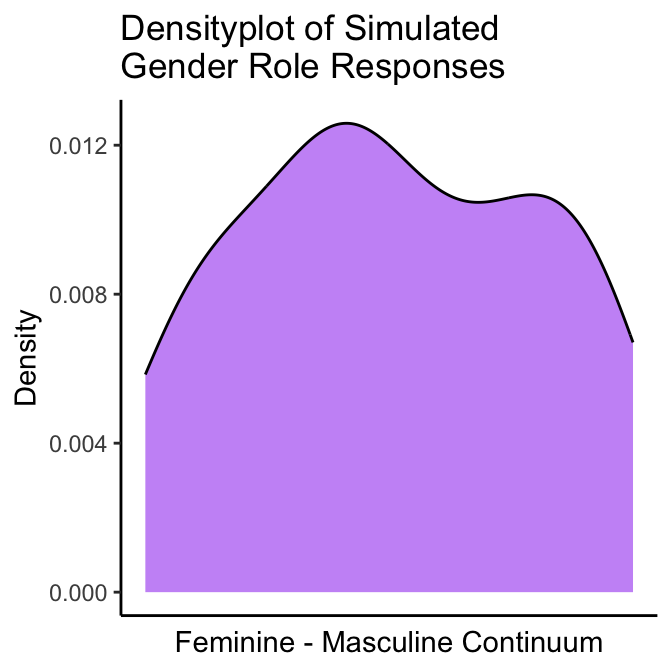
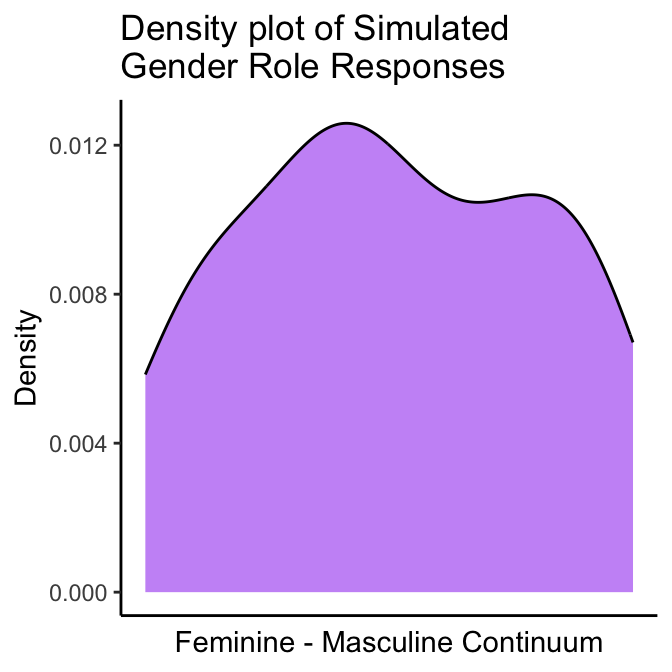
copy edits

Changed region(s): [[0.3438, 0.0, 0.7812, 0.0625]]

diff --git a/docs/continuous.html b/docs/continuous.html
@@ -27,7 +27,7 @@
 <meta name="author" content="S Dogra" />
 
 
-<meta name="date" content="2025-07-26" />
+<meta name="date" content="2025-08-08" />
 
   <meta name="viewport" content="width=device-width, initial-scale=1" />
   <meta name="apple-mobile-web-app-capable" content="yes" />
@@ -257,7 +257,7 @@ Figure 4.1: Density Plot of Continuous Variable by Biological Sex Examples
 <div id="summary-statistics-by-biological-sex" class="section level3 hasAnchor" number="4.1.2">
 <h3><span class="header-section-number">4.1.2</span> Summary Statistics by Biological Sex<a href="continuous.html#summary-statistics-by-biological-sex" class="anchor-section" aria-label="Anchor link to header"></a></h3>
 <table>
-<caption><span id="tab:03-tab-int">Table 4.1: </span>Interation example summary statisitics: Continuous outcome and biological sex</caption>
+<caption><span id="tab:03-tab-int">Table 4.1: </span>Interaction example summary statisitics: Continuous outcome and biological sex</caption>
 <colgroup>
 <col width="18%" />
 <col width="3%" />
@@ -296,7 +296,7 @@ Figure 4.1: Density Plot of Continuous Variable by Biological Sex Examples
 </tbody>
 </table>
 <table>
-<caption><span id="tab:03-tab-no-int">Table 4.2: </span>No interation example summary statisitics: Continuous outcome and biological sex</caption>
+<caption><span id="tab:03-tab-no-int">Table 4.2: </span>No interaction example summary statisitics: Continuous outcome and biological sex</caption>
 <colgroup>
 <col width="18%" />
 <col width="3%" />
@@ -544,9 +544,9 @@ Figure 4.4: Scatter Plot of Continuous Variable by Gender Identity and Gendered 
 </p>
 </div>
 <div class="figure" style="text-align: center"><span style="display:block;" id="fig:04-2gah-2ddens"></span>
-<img src="03-continuous_files/figure-html/04-2gah-2ddens-1.png" alt="2D Density Plots of Continuous Variable by Gender Identityand Gendered Roles" width="50%" /><img src="03-continuous_files/figure-html/04-2gah-2ddens-2.png" alt="2D Density Plots of Continuous Variable by Gender Identityand Gendered Roles" width="50%" />
+<img src="03-continuous_files/figure-html/04-2gah-2ddens-1.png" alt="2D Density Plots of Continuous Variable by Gender Identity and Gendered Roles" width="50%" /><img src="03-continuous_files/figure-html/04-2gah-2ddens-2.png" alt="2D Density Plots of Continuous Variable by Gender Identity and Gendered Roles" width="50%" />
 <p class="caption">
-Figure 4.5: 2D Density Plots of Continuous Variable by Gender Identityand Gendered Roles
+Figure 4.5: 2D Density Plots of Continuous Variable by Gender Identity and Gendered Roles
 </p>
 </div>
 <p><strong>Interpretation:</strong> From the above scatter and 2-D density plots (Figures <a href="continuous.html#fig:04-2gah-scatter">4.4</a> and <a href="continuous.html#fig:04-2gah-2ddens">4.5</a>) we can see a relatively clear pattern difference in the continuous outcome value across the feminine-masculine continuum in the <strong>gender identity</strong> item. Whereas, the <strong>gendered roles</strong> item scatter and 2-D density plots show less distinct clustering with a cluster closer to the masculine end of the continuum having lower continuous outcome values and the continuous outcome values closer to the feminine end of the continuum showing both high and low values. This suggests that in this example the <strong>gender identity</strong> SGBA-5 item is associated with the continuous outcome variable in this example and the <strong>gendered roles</strong> item is not clear, but may suggest the potential of a more complicated relationship between the continuous outcome and <strong>gendered roles</strong>.</p>

diff --git a/docs/index.html b/docs/index.html
@@ -27,7 +27,7 @@
 <meta name="author" content="S Dogra" />
 
 
-<meta name="date" content="2025-07-26" />
+<meta name="date" content="2025-08-08" />
 
   <meta name="viewport" content="width=device-width, initial-scale=1" />
   <meta name="apple-mobile-web-app-capable" content="yes" />
@@ -237,11 +237,11 @@ code span.wa { color: #60a0b0; font-weight: bold; font-style: italic; } /* Warni
 <h1 class="title">Example Analysis: Using the SGBA-5 with Simulated Data</h1>
 <p class="author"><em>A Putman</em></p>
 <p class="author"><em>S Dogra</em></p>
-<p class="date"><em>2025-07-26</em></p>
+<p class="date"><em>2025-08-08</em></p>
 </div>
 <div id="about" class="section level1 hasAnchor" number="1">
 <h1><span class="header-section-number">Chapter 1</span> About<a href="index.html#about" class="anchor-section" aria-label="Anchor link to header"></a></h1>
-<p>The following example analysis demonstrates a way in which sex-and gender-based analysis (SGBA) can be conducted using results from the Sex- and Gender-Based Analysis Tool – 5 item (SGBA-5) by Putman and Dogra which can be downloaded <a href="https://figshare.com/articles/journal_contribution/Sex-_and_gender-based_analysis_tool_5-item_v1_0_/29090615?file=54611480">here</a>.The SGBA-5 is free to use and is licensed under <a href="https://creativecommons.org/licenses/by/4.0/">CC BY 4.0</a>.</p>
+<p>The following example analysis demonstrates a way in which sex-and gender-based analysis (SGBA) can be conducted using results from the Sex- and Gender-Based Analysis Tool – 5 item (SGBA-5) by Putman and Dogra which can be downloaded <a href="https://figshare.com/articles/journal_contribution/Sex-_and_gender-based_analysis_tool_5-item_v1_0_/29090615?file=54611480">here</a>. The SGBA-5 is free to use and is licensed under <a href="https://creativecommons.org/licenses/by/4.0/">CC BY 4.0</a>.</p>
 <p>The examples shown in the following sections cover a <a href="descriptive-analysis.html#descriptive-analysis">descriptive analysis</a> of simulated SGBA-5 responses (e.g., what SGBA-5 results may look like in a Table 1). Then an approach is demonstrated where a <a href="continuous.html#continuous">continuous</a> variable (i.e., the primary outcome of a study) is assessed by looking for potential interactions between that continuous variable and the biological sex item or the gendered aspects of health items from the SGBA-5. The examples provided do not cover all potential analyses that could be done using the SGBA-5 but do provide a solid foundation from which researchers can select from and build upon.</p>
 <p>The R code to reproduce the plots and statistical tests used in the examples is included in the <a href="appendix.html#appendix">Appendix</a>.</p>
 <div id="further-resources" class="section level2 hasAnchor" number="1.1">

diff --git a/docs/data-structure.html b/docs/data-structure.html
@@ -27,7 +27,7 @@
 <meta name="author" content="S Dogra" />
 
 
-<meta name="date" content="2025-07-26" />
+<meta name="date" content="2025-08-08" />
 
   <meta name="viewport" content="width=device-width, initial-scale=1" />
   <meta name="apple-mobile-web-app-capable" content="yes" />
@@ -320,7 +320,7 @@ The values in this table are placeholders for the example, not real data</p>
 </div>
 <div id="simulated-data" class="section level2 hasAnchor" number="2.2">
 <h2><span class="header-section-number">2.2</span> Simulated Data<a href="data-structure.html#simulated-data" class="anchor-section" aria-label="Anchor link to header"></a></h2>
-<p>This example analysis uses simulated data, if you wish to replicate the simulate data the code to do so is included in the <a href="appendix.html#sec:sim-data">Appendix</a> or a .csv file of the simulated data can be downloaded from this example’s <a href="https://github.com/putman-a/SGBA-5_example_analysis/%s">github page</a>.</p>
+<p>This example analysis uses simulated data. If you wish to replicate the simulate data, the R code to do so is included in the <a href="appendix.html#sec:sim-data">Appendix</a> or a .csv file of the simulated data can be downloaded from this example’s <a href="https://github.com/putman-a/SGBA-5_example_analysis/%s">github page</a>.</p>
 
 </div>
 </div>

diff --git a/docs/appendix.html b/docs/appendix.html
@@ -27,7 +27,7 @@
 <meta name="author" content="S Dogra" />
 
 
-<meta name="date" content="2025-07-26" />
+<meta name="date" content="2025-08-08" />
 
   <meta name="viewport" content="width=device-width, initial-scale=1" />
   <meta name="apple-mobile-web-app-capable" content="yes" />
@@ -457,7 +457,7 @@ code span.wa { color: #60a0b0; font-weight: bold; font-style: italic; } /* Warni
 ##  collate  en_US.UTF-8
 ##  ctype    en_US.UTF-8
 ##  tz       America/Toronto
-##  date     2025-07-26
+##  date     2025-08-08
 ##  pandoc   3.4 @ /Applications/RStudio.app/Contents/Resources/app/quarto/bin/tools/aarch64/ (via rmarkdown)
 ##  quarto   1.6.42 @ /Applications/RStudio.app/Contents/Resources/app/quarto/bin/quarto
 ## 

diff --git a/docs/404.html b/docs/404.html
@@ -27,7 +27,7 @@
 <meta name="author" content="S Dogra" />
 
 
-<meta name="date" content="2025-07-26" />
+<meta name="date" content="2025-08-08" />
 
   <meta name="viewport" content="width=device-width, initial-scale=1" />
   <meta name="apple-mobile-web-app-capable" content="yes" />

diff --git a/docs/descriptive-analysis.html b/docs/descriptive-analysis.html
@@ -27,7 +27,7 @@
 <meta name="author" content="S Dogra" />
 
 
-<meta name="date" content="2025-07-26" />
+<meta name="date" content="2025-08-08" />
 
   <meta name="viewport" content="width=device-width, initial-scale=1" />
   <meta name="apple-mobile-web-app-capable" content="yes" />

diff --git a/docs/03-continuous.md b/docs/03-continuous.md
@@ -13,7 +13,7 @@ A good idea is to start by visualizing the continuous variable’s distribution 
 ### Density Plots by Biological Sex
 
 <div class="figure" style="text-align: center">
-<img src="03-continuous_files/figure-epub3/04-binary-pos-plot-1.png" alt="Density Plot of Continuous Variable by Biological Sex Examples" width="50%" /><img src="03-continuous_files/figure-epub3/04-binary-pos-plot-2.png" alt="Density Plot of Continuous Variable by Biological Sex Examples" width="50%" />
+<img src="03-continuous_files/figure-html/04-binary-pos-plot-1.png" alt="Density Plot of Continuous Variable by Biological Sex Examples" width="50%" /><img src="03-continuous_files/figure-html/04-binary-pos-plot-2.png" alt="Density Plot of Continuous Variable by Biological Sex Examples" width="50%" />
 <p class="caption">(\#fig:04-binary-pos-plot)Density Plot of Continuous Variable by Biological Sex Examples</p>
 </div>
 
@@ -22,7 +22,7 @@ A good idea is to start by visualizing the continuous variable’s distribution 
 ### Summary Statistics by Biological Sex
 
 
-Table: (\#tab:03-tab-int)Interation example summary statisitics: Continuous outcome and biological sex
+Table: (\#tab:03-tab-int)Interaction example summary statisitics: Continuous outcome and biological sex
 
 |biological sex |  n| mean continuous| SD continuous| median continuous| IQR continuous|
 |:--------------|--:|---------------:|-------------:|-----------------:|--------------:|
@@ -30,7 +30,7 @@ Table: (\#tab:03-tab-int)Interation example summary statisitics: Continuous outc
 |Male           | 16|            11.3|          2.95|                11|              2|
 
 
-Table: (\#tab:03-tab-no-int)No interation example summary statisitics: Continuous outcome and biological sex
+Table: (\#tab:03-tab-no-int)No interaction example summary statisitics: Continuous outcome and biological sex
 
 |biological sex |  n| mean continuous| SD continuous| median continuous| IQR continuous|
 |:--------------|--:|---------------:|-------------:|-----------------:|--------------:|
@@ -72,12 +72,12 @@ In this section we will analyze a single of the gendered aspects of health resul
 ### Scatter & 2-D Density Plots for One Item
 
 <div class="figure" style="text-align: center">
-<img src="03-continuous_files/figure-epub3/04-gi-scatter-1.png" alt="Scatter Plot of Continuous Variable by Gender Identity" width="50%" /><img src="03-continuous_files/figure-epub3/04-gi-scatter-2.png" alt="Scatter Plot of Continuous Variable by Gender Identity" width="50%" />
+<img src="03-continuous_files/figure-html/04-gi-scatter-1.png" alt="Scatter Plot of Continuous Variable by Gender Identity" width="50%" /><img src="03-continuous_files/figure-html/04-gi-scatter-2.png" alt="Scatter Plot of Continuous Variable by Gender Identity" width="50%" />
 <p class="caption">(\#fig:04-gi-scatter)Scatter Plot of Continuous Variable by Gender Identity</p>
 </div>
 
 <div class="figure" style="text-align: center">
-<img src="03-continuous_files/figure-epub3/04-gi-2ddens-1.png" alt="2D Density Plots of Continuous Variable by Gender Identity" width="50%" /><img src="03-continuous_files/figure-epub3/04-gi-2ddens-2.png" alt="2D Density Plots of Continuous Variable by Gender Identity" width="50%" />
+<img src="03-continuous_files/figure-html/04-gi-2ddens-1.png" alt="2D Density Plots of Continuous Variable by Gender Identity" width="50%" /><img src="03-continuous_files/figure-html/04-gi-2ddens-2.png" alt="2D Density Plots of Continuous Variable by Gender Identity" width="50%" />
 <p class="caption">(\#fig:04-gi-2ddens)2D Density Plots of Continuous Variable by Gender Identity</p>
 </div>
 
@@ -142,13 +142,13 @@ Like when assessing only one of the gendered aspect of health items, we will sta
 ### Scatter & 2-D Density Plots for Two Items
 
 <div class="figure" style="text-align: center">
-<img src="03-continuous_files/figure-epub3/04-2gah-scatter-1.png" alt="Scatter Plot of Continuous Variable by Gender Identity and Gendered Roles" width="50%" /><img src="03-continuous_files/figure-epub3/04-2gah-scatter-2.png" alt="Scatter Plot of Continuous Variable by Gender Identity and Gendered Roles" width="50%" />
+<img src="03-continuous_files/figure-html/04-2gah-scatter-1.png" alt="Scatter Plot of Continuous Variable by Gender Identity and Gendered Roles" width="50%" /><img src="03-continuous_files/figure-html/04-2gah-scatter-2.png" alt="Scatter Plot of Continuous Variable by Gender Identity and Gendered Roles" width="50%" />
 <p class="caption">(\#fig:04-2gah-scatter)Scatter Plot of Continuous Variable by Gender Identity and Gendered Roles</p>
 </div>
 
 <div class="figure" style="text-align: center">
-<img src="03-continuous_files/figure-epub3/04-2gah-2ddens-1.png" alt="2D Density Plots of Continuous Variable by Gender Identityand Gendered Roles" width="50%" /><img src="03-continuous_files/figure-epub3/04-2gah-2ddens-2.png" alt="2D Density Plots of Continuous Variable by Gender Identityand Gendered Roles" width="50%" />
-<p class="caption">(\#fig:04-2gah-2ddens)2D Density Plots of Continuous Variable by Gender Identityand Gendered Roles</p>
+<img src="03-continuous_files/figure-html/04-2gah-2ddens-1.png" alt="2D Density Plots of Continuous Variable by Gender Identity and Gendered Roles" width="50%" /><img src="03-continuous_files/figure-html/04-2gah-2ddens-2.png" alt="2D Density Plots of Continuous Variable by Gender Identity and Gendered Roles" width="50%" />
+<p class="caption">(\#fig:04-2gah-2ddens)2D Density Plots of Continuous Variable by Gender Identity and Gendered Roles</p>
 </div>
 
 **Interpretation:** From the above scatter and 2-D density plots (Figures \@ref(fig:04-2gah-scatter) and \@ref(fig:04-2gah-2ddens)) we can see a relatively clear pattern difference in the continuous outcome value across the feminine-masculine continuum in the **gender identity** item. Whereas, the **gendered roles** item scatter and 2-D density plots show less distinct clustering with a cluster closer to the masculine end of the continuum having lower continuous outcome values and the continuous outcome values closer to the feminine end of the continuum showing both high and low values. This suggests that in this example the **gender identity** SGBA-5 item is associated with the continuous outcome variable in this example and the **gendered roles** item is not clear, but may suggest the potential of a more complicated relationship between the continuous outcome and **gendered roles**.

diff --git a/docs/02-descriptive-analysis.md b/docs/02-descriptive-analysis.md
@@ -14,7 +14,7 @@
 In plot \@ref(fig:02-univar-sex-plot) we see that there are more participants who report their **biological sex** as assigned as female at birth (n=18) than males (n=12). 
 
 <div class="figure" style="text-align: center">
-<img src="02-descriptive-analysis_files/figure-epub3/02-univar-sex-plot-1.png" alt="Barplot of Biological Sex Responses" width="50%" />
+<img src="02-descriptive-analysis_files/figure-html/02-univar-sex-plot-1.png" alt="Barplot of Biological Sex Responses" width="50%" />
 <p class="caption">(\#fig:02-univar-sex-plot)Barplot of Biological Sex Responses</p>
 </div>
 
@@ -23,7 +23,7 @@ In plot \@ref(fig:02-univar-sex-plot) we see that there are more participants wh
 Looking at the density plots for **gender identity** and **gender role** (figure \@ref(fig:02-univar-gi-plot)), we see that while both variables are bimodal, the **gender identity** responses is more strongly bimodal with one peak closer to the feminine side of the feminine-masculine continuum and one peak closer to masculine end of that continuum. Further, we can also see that in general, participants reported their **gender identity** and **roles** as being more feminine, again with the **gender identity** responses showing this trend more strongly than the **gender role** responses.  
 
 <div class="figure" style="text-align: center">
-<img src="02-descriptive-analysis_files/figure-epub3/02-univar-gi-plot-1.png" alt="Density plots of Gender Identity and Roles" width="50%" /><img src="02-descriptive-analysis_files/figure-epub3/02-univar-gi-plot-2.png" alt="Density plots of Gender Identity and Roles" width="50%" />
+<img src="02-descriptive-analysis_files/figure-html/02-univar-gi-plot-1.png" alt="Density plots of Gender Identity and Roles" width="50%" /><img src="02-descriptive-analysis_files/figure-html/02-univar-gi-plot-2.png" alt="Density plots of Gender Identity and Roles" width="50%" />
 <p class="caption">(\#fig:02-univar-gi-plot)Density plots of Gender Identity and Roles</p>
 </div>
 

diff --git a/docs/index.md b/docs/index.md
@@ -3,7 +3,7 @@ title: "Example Analysis: Using the SGBA-5 with Simulated Data"
 author: 
 - "A Putman"
 - "S Dogra"
-date: "2025-07-26"
+date: "2025-08-08"
 site: "bookdown::bookdown_site"
 documentclass: book
 bibliography: ["book.bib", "packages.bib"]
@@ -19,7 +19,7 @@ github-repo: "putman-a/SGBA-5_example_analysis"
 
 # About
 
-The following example analysis demonstrates a way in which sex-and gender-based analysis (SGBA) can be conducted using results from the Sex- and Gender-Based Analysis Tool – 5 item (SGBA-5) by Putman and Dogra which can be downloaded [here](https://figshare.com/articles/journal_contribution/Sex-_and_gender-based_analysis_tool_5-item_v1_0_/29090615?file=54611480).The SGBA-5 is free to use and is licensed under [CC BY 4.0](https://creativecommons.org/licenses/by/4.0/).
+The following example analysis demonstrates a way in which sex-and gender-based analysis (SGBA) can be conducted using results from the Sex- and Gender-Based Analysis Tool – 5 item (SGBA-5) by Putman and Dogra which can be downloaded [here](https://figshare.com/articles/journal_contribution/Sex-_and_gender-based_analysis_tool_5-item_v1_0_/29090615?file=54611480). The SGBA-5 is free to use and is licensed under [CC BY 4.0](https://creativecommons.org/licenses/by/4.0/).
 
 The examples shown in the following sections cover a [descriptive analysis](#descriptive-analysis) of simulated SGBA-5 responses (e.g., what SGBA-5 results may look like in a Table 1). Then an approach is demonstrated where a [continuous](#continuous) variable (i.e., the primary outcome of a study) is assessed by looking for potential interactions between that continuous variable and the biological sex item or the gendered aspects of health items from the SGBA-5. The examples provided do not cover all potential analyses that could be done using the SGBA-5 but do provide a solid foundation from which researchers can select from and build upon.
 

diff --git a/docs/99-appendix.md b/docs/99-appendix.md
@@ -238,7 +238,7 @@ sessioninfo::session_info(pkgs = "loaded")
 ##  collate  en_US.UTF-8
 ##  ctype    en_US.UTF-8
 ##  tz       America/Toronto
-##  date     2025-07-26
+##  date     2025-08-08
 ##  pandoc   3.4 @ /Applications/RStudio.app/Contents/Resources/app/quarto/bin/tools/aarch64/ (via rmarkdown)
 ##  quarto   1.6.42 @ /Applications/RStudio.app/Contents/Resources/app/quarto/bin/quarto
 ## 
@@ -247,6 +247,8 @@ sessioninfo::session_info(pkgs = "loaded")
 ##  bit            4.6.0   2025-03-06 [1] CRAN (R 4.5.0)
 ##  bit64          4.6.0-1 2025-01-16 [1] CRAN (R 4.5.0)
 ##  bookdown       0.43    2025-04-15 [1] CRAN (R 4.5.0)
+##  bslib          0.9.0   2025-01-30 [1] CRAN (R 4.5.0)
+##  cachem         1.1.0   2024-05-16 [1] CRAN (R 4.5.0)
 ##  cli            3.6.5   2025-04-23 [1] CRAN (R 4.5.0)
 ##  crayon         1.5.3   2024-06-20 [1] CRAN (R 4.5.0)
 ##  digest         0.6.37  2024-08-19 [1] CRAN (R 4.5.0)
@@ -261,6 +263,8 @@ sessioninfo::session_info(pkgs = "loaded")
 ##  gtable         0.3.6   2024-10-25 [1] CRAN (R 4.5.0)
 ##  hms            1.1.3   2023-03-21 [1] CRAN (R 4.5.0)
 ##  htmltools      0.5.8.1 2024-04-04 [1] CRAN (R 4.5.0)
+##  jquerylib      0.1.4   2021-04-26 [1] CRAN (R 4.5.0)
+##  jsonlite       2.0.0   2025-03-27 [1] CRAN (R 4.5.0)
 ##  knitr          1.50    2025-03-16 [1] CRAN (R 4.5.0)
 ##  lifecycle      1.0.4   2023-11-07 [1] CRAN (R 4.5.0)
 ##  lubridate    * 1.9.4   2024-12-08 [1] CRAN (R 4.5.0)
@@ -274,6 +278,7 @@ sessioninfo::session_info(pkgs = "loaded")
 ##  rlang          1.1.6   2025-04-11 [1] CRAN (R 4.5.0)
 ##  rmarkdown      2.29    2024-11-04 [1] CRAN (R 4.5.0)
 ##  rstudioapi     0.17.1  2024-10-22 [1] CRAN (R 4.5.0)
+##  sass           0.4.10  2025-04-11 [1] CRAN (R 4.5.0)
 ##  scales         1.4.0   2025-04-24 [1] CRAN (R 4.5.0)
 ##  sessioninfo    1.2.3   2025-02-05 [1] CRAN (R 4.5.0)
 ##  stringi        1.8.7   2025-03-27 [1] CRAN (R 4.5.0)

diff --git a/docs/01-data-structures.md b/docs/01-data-structures.md
@@ -47,4 +47,4 @@ Where:
 
 ## Simulated Data
 
-This example analysis uses simulated data, if you wish to replicate the simulate data the code to do so is included in the [Appendix](#sec:sim-data) or a .csv file of the simulated data can be downloaded from this example's [github page](https://github.com/putman-a/SGBA-5_example_analysis/%s).
+This example analysis uses simulated data. If you wish to replicate the simulate data, the R code to do so is included in the [Appendix](#sec:sim-data) or a .csv file of the simulated data can be downloaded from this example's [github page](https://github.com/putman-a/SGBA-5_example_analysis/%s).
